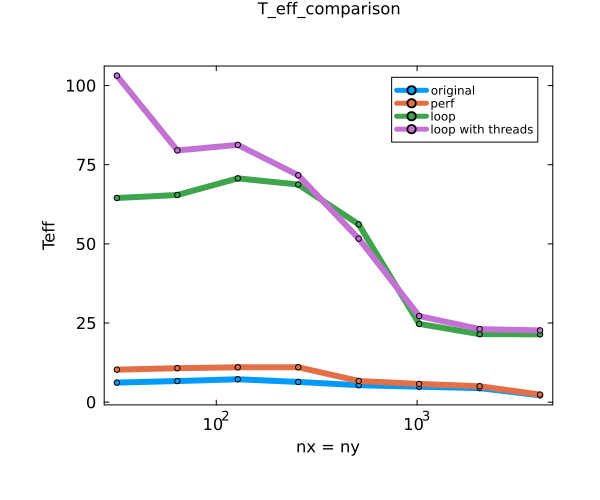
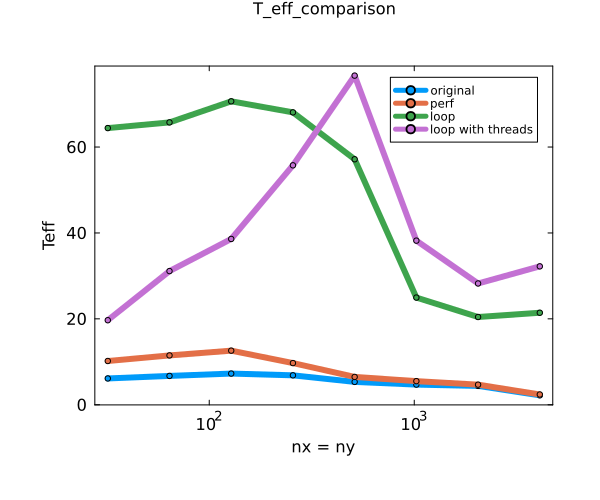
added the readme and plots

diff --git a/homework-6/Readme.md b/homework-6/Readme.md
@@ -1,12 +1,45 @@
-Task 1
 
-Task 2
+### Exercise 2
+
+### Task 2
+
+![Comparing Teff for array and kernels](./Pf_diffusion_2D/T_peak_benchmark.png)
+![Comparing Teff for array and kernels](./Pf_diffusion_2D/T_peak_loop.png)
+![Comparing Teff for array and kernels](./Pf_diffusion_2D/T_peak.png)
+
+We can see that not only the array vs the kernel change the speed but also the way it is measured.
+Interestingly when no benchmark tool is used we can hardly see a difference between the array and kernel implementation.
 
 
+### Task 3
 
-Task 3
+![Comparing Teff of the different diffusion implementations](./Pf_diffusion_2D/diff_comp.png)
+
+Here we tested the different diffusion implementations.
+
+The original  line is the naive implementation.
+
+The "perf" line uses precomputed divisions, 
+
+the "loop" uses an explicit loop and does not check if an array is inbounds.
+
+The "loop with threads" uses additional threads, otherwise it is the same as the "loop" implementation.
+
+I can be observed, that the precomputation of divisions is only for small sizes effective. 
+The loop implementation has a much better memory throughput, but I found out this is because of the @inboudns check.
+Here we can see an other plot, where I did not use @inbounds, which changed the size significantly:
+![](./Pf_diffusion_2D/diff_comp_noinbounds.png)
+Additionally we have seen in Task 2, 
+that the benchmark and the loop timing can differ, 
+and in the loop and loopwiththreads implementations 
+benchmark tools are used to time the program instead of the loopdivided by iterations.
+The threads are an interesting observation. 
+They have a clear optimal performance. I assume that this amount is such that every thread can operate on their own place in memory 
+and no memory sharing is needed, so they do not(or very little) need to exchange memory between each other.
+
+### Exercise 3
 
 ```
-Test Summary: | Pass  Total  Time
+Test Summary: | Pass  Total  Time 
 test entries  |    4      4  1.3s
 ```
